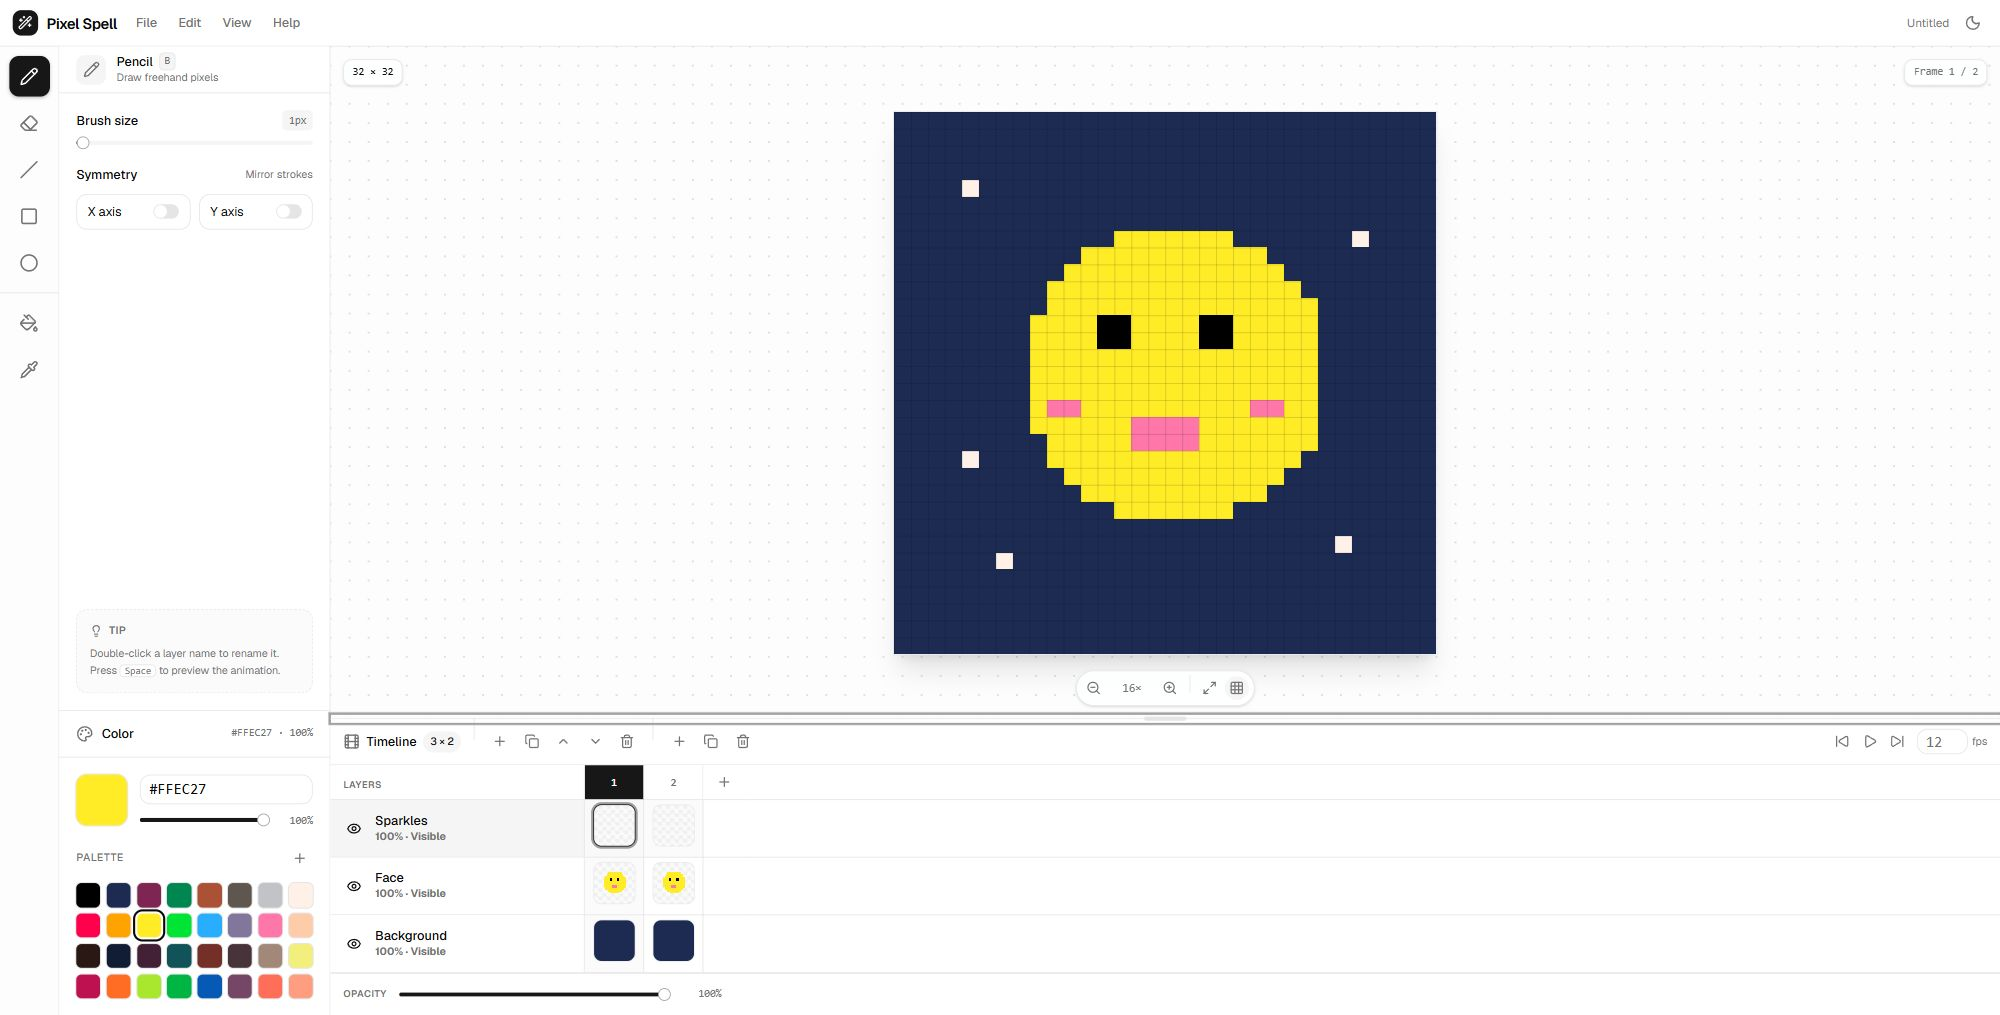
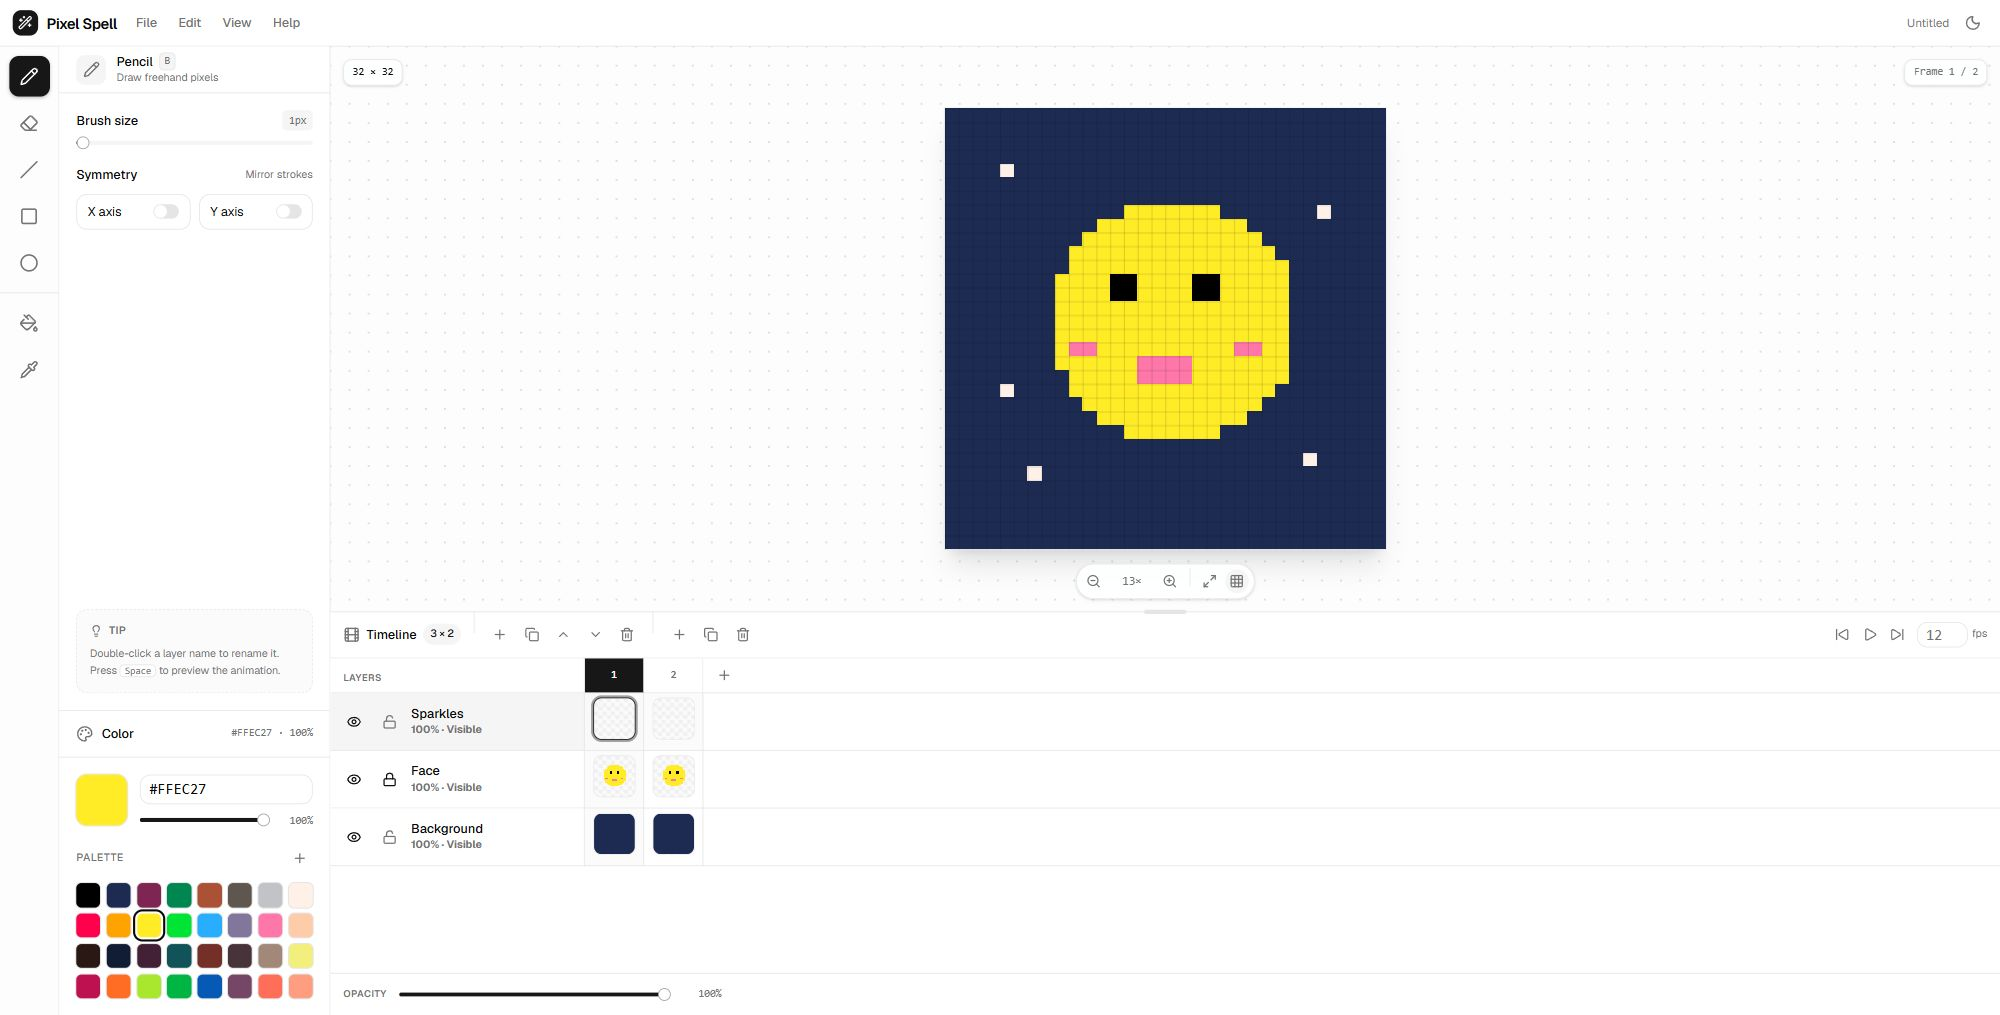
layer lock feature

diff --git a/src/lib/components/editor/TimelineLayerRow.svelte b/src/lib/components/editor/TimelineLayerRow.svelte
@@ -1,6 +1,8 @@
 <script lang="ts">
 	import Eye from "@lucide/svelte/icons/eye";
 	import EyeOff from "@lucide/svelte/icons/eye-off";
+	import Lock from "@lucide/svelte/icons/lock";
+	import LockOpen from "@lucide/svelte/icons/lock-open";
 	import { tick } from "svelte";
 	import { Button } from "$lib/components/ui/button/index.js";
 	import { editor } from "$lib/editor/editor.svelte.js";
@@ -58,6 +60,25 @@
 					<Eye class="size-3.5" />
 				{:else}
 					<EyeOff class="size-3.5" />
+				{/if}
+			</Button>
+
+			<Button
+				variant="ghost"
+				size="icon-xs"
+				class={cn(
+					"size-7 shrink-0",
+					layer.locked ? "text-foreground" : "text-muted-foreground",
+				)}
+				title={layer.locked ? `Unlock ${layer.name}` : `Lock ${layer.name}`}
+				aria-label={layer.locked ? `Unlock ${layer.name}` : `Lock ${layer.name}`}
+				aria-pressed={layer.locked}
+				onclick={() => editor.toggleLayerLock(layer.id)}
+			>
+				{#if layer.locked}
+					<Lock class="size-3.5" />
+				{:else}
+					<LockOpen class="size-3.5" />
 				{/if}
 			</Button>
 

diff --git a/src/lib/editor/file.ts b/src/lib/editor/file.ts
@@ -7,6 +7,7 @@ interface SerializedLayer {
 	id: string;
 	name: string;
 	visible: boolean;
+	locked: boolean;
 	opacity: number;
 	cels: string[];
 }
@@ -140,6 +141,7 @@ export function serializeProject(
 			id: layer.id,
 			name: layer.name,
 			visible: layer.visible,
+			locked: layer.locked,
 			opacity: layer.opacity,
 			cels: layer.cels.map(encodePixels),
 		})),
@@ -188,7 +190,7 @@ export function parseProject(raw: string): LoadedProject | null {
 						? rawLayer.name
 						: `Layer ${index + 1}`,
 				visible: rawLayer?.visible !== false,
-				locked: false,
+				locked: rawLayer?.locked === true,
 				opacity: clamp(Number(rawLayer?.opacity ?? 1), 0, 1),
 				cels,
 			};

diff --git a/src/lib/editor/editor.svelte.ts b/src/lib/editor/editor.svelte.ts
@@ -255,6 +255,7 @@ export class EditorState {
 		const layer = this.doc.layers.find((item) => item.id === id);
 		if (!layer) return;
 		layer.locked = !layer.locked;
+		this.dirty = true;
 	}
 
 	renameLayer(id: string, name: string): void {

diff --git a/AGENTS.md b/AGENTS.md
@@ -111,6 +111,7 @@ When adding a tool:
   - Rows are layers, displayed top-to-bottom with `[...editor.doc.layers].reverse()`.
   - Columns are animation frames, plus a trailing add-frame column and a filler column that absorbs extra width.
   - Clicking a cel selects both its layer and frame. Clicking a frame header selects only the frame; clicking a layer name selects only the layer.
+  - The layer header exposes visibility and lock toggles next to the layer name. Locked layers block drawing through `CanvasStage`'s `isDrawable` guard.
   - The header row and the layer column are sticky (`position: sticky`) inside an `overflow-auto` container. Keep `border-separate border-spacing-0` and opaque header backgrounds, or scrolled content will show through.
   - The active frame header is `bg-primary`; the active layer row and active frame column use subtle accent backgrounds; the active cel has a primary ring.
   - The opacity footer below the table controls the active layer.
@@ -140,6 +141,7 @@ Preserve these regions and their relative placement when making changes.
 
 - Project format identifier: `"pixel-spell"`, version `1`.
 - `serializeProject` stores cels as base64; `parseProject` validates dimensions, frame count, layer data, and palette. Invalid files return `null` and the UI alerts the user.
+- Layer visibility, opacity, and lock state are serialized with each layer. Older files without a `locked` field load as unlocked.
 - PNG export uses `canvas.toDataURL`; sprite sheets place frames horizontally.
 - `editor.saveToFile()` triggers a browser download and clears the dirty flag.
 
@@ -158,7 +160,7 @@ Preserve these regions and their relative placement when making changes.
 
 - `npm run check` passes with zero errors/warnings.
 - `npm run build` succeeds.
-- Drawing, erasing, fill, shapes, eyedropper, undo/redo, layer operations, frame operations, playback, cel selection, and timeline resizing still work.
+- Drawing, erasing, fill, shapes, eyedropper, undo/redo, layer operations, lock toggling, frame operations, playback, cel selection, and timeline resizing still work.
 - The timeline table keeps its sticky header row and layer column while scrolling, and the divider respects its min/max bounds.
 - New UI matches the existing modern shadcn aesthetic and respects the layout contract.
 - Update `README.md` when user-facing behavior or shortcuts change.

diff --git a/README.md b/README.md
@@ -8,7 +8,7 @@ A focused pixel art editor that runs entirely in the browser. Draw sprites, buil
 
 - **Drawing tools** — pencil, eraser, line, rectangle, ellipse, paint bucket, and eyedropper.
 - **Tool options** — brush sizes from 1–8 px, filled shapes, X/Y symmetry, fill tolerance and contiguous fill, and layer-aware color sampling.
-- **Aseprite-style timeline** — layers are rows and frames are columns. Click any cel to select its layer and frame; sticky headers keep both axes visible while scrolling. Add, duplicate, reorder, rename, hide, delete, and adjust layer opacity; add, duplicate, and delete frames; play the animation at 1–60 fps.
+- **Aseprite-style timeline** — layers are rows and frames are columns. Click any cel to select its layer and frame; sticky headers keep both axes visible while scrolling. Add, duplicate, reorder, rename, hide, lock, delete, and adjust layer opacity; add, duplicate, and delete frames; play the animation at 1–60 fps.
 - **Resizable workspace** — drag the divider above the timeline, or focus it and use `↑` / `↓`, to resize the canvas/timeline split. The height is remembered between visits.
 - **Color workflow** — hex input, native color picker, alpha slider, and a 32-color palette you can extend.
 - **History** — 80-step undo/redo stack with keyboard shortcuts.
@@ -94,7 +94,7 @@ A document is a `PixelDoc`:
 
 - `width`, `height`, `fps`
 - `frames[]` — animation frames
-- `layers[]` — ordered bottom-to-top; each layer has visibility, opacity, and one `Uint32Array` cel per frame
+- `layers[]` — ordered bottom-to-top; each layer has visibility, opacity, lock state, and one `Uint32Array` cel per frame
 
 Pixels are packed little-endian RGBA (`0xAABBGGRR`), which lets cels be written directly into `ImageData` for rendering and PNG export. Transparent pixels are `0`.
 
